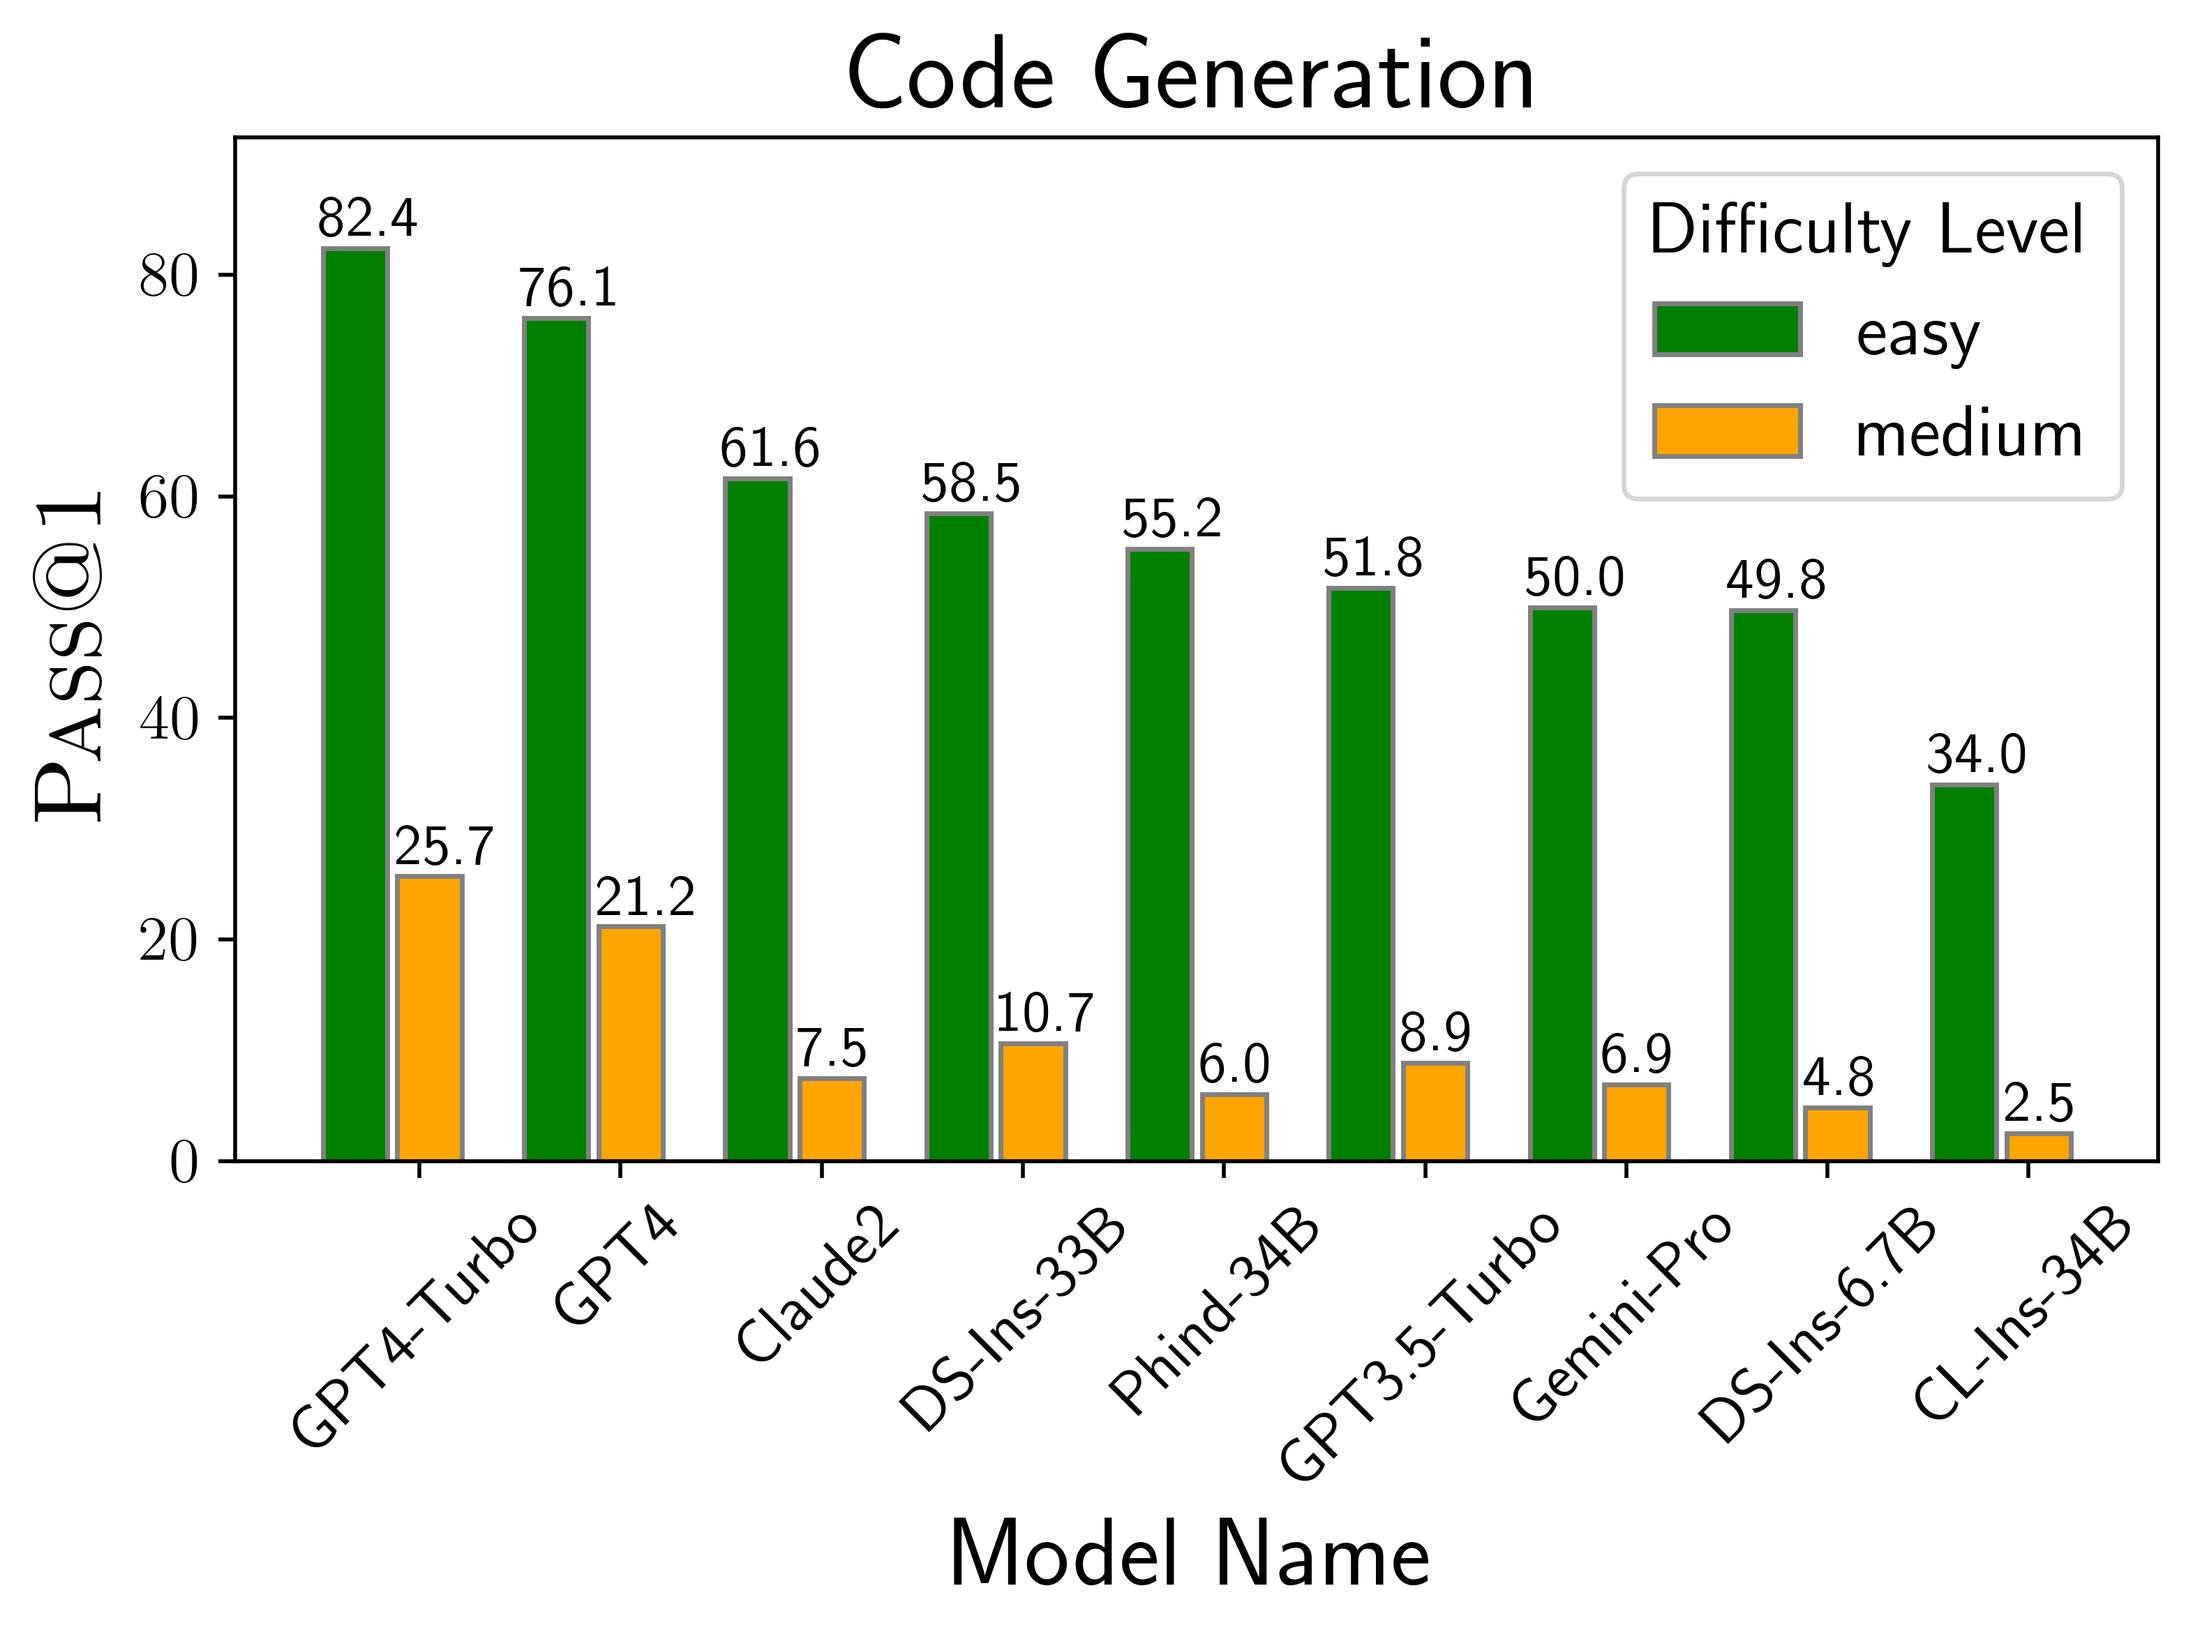
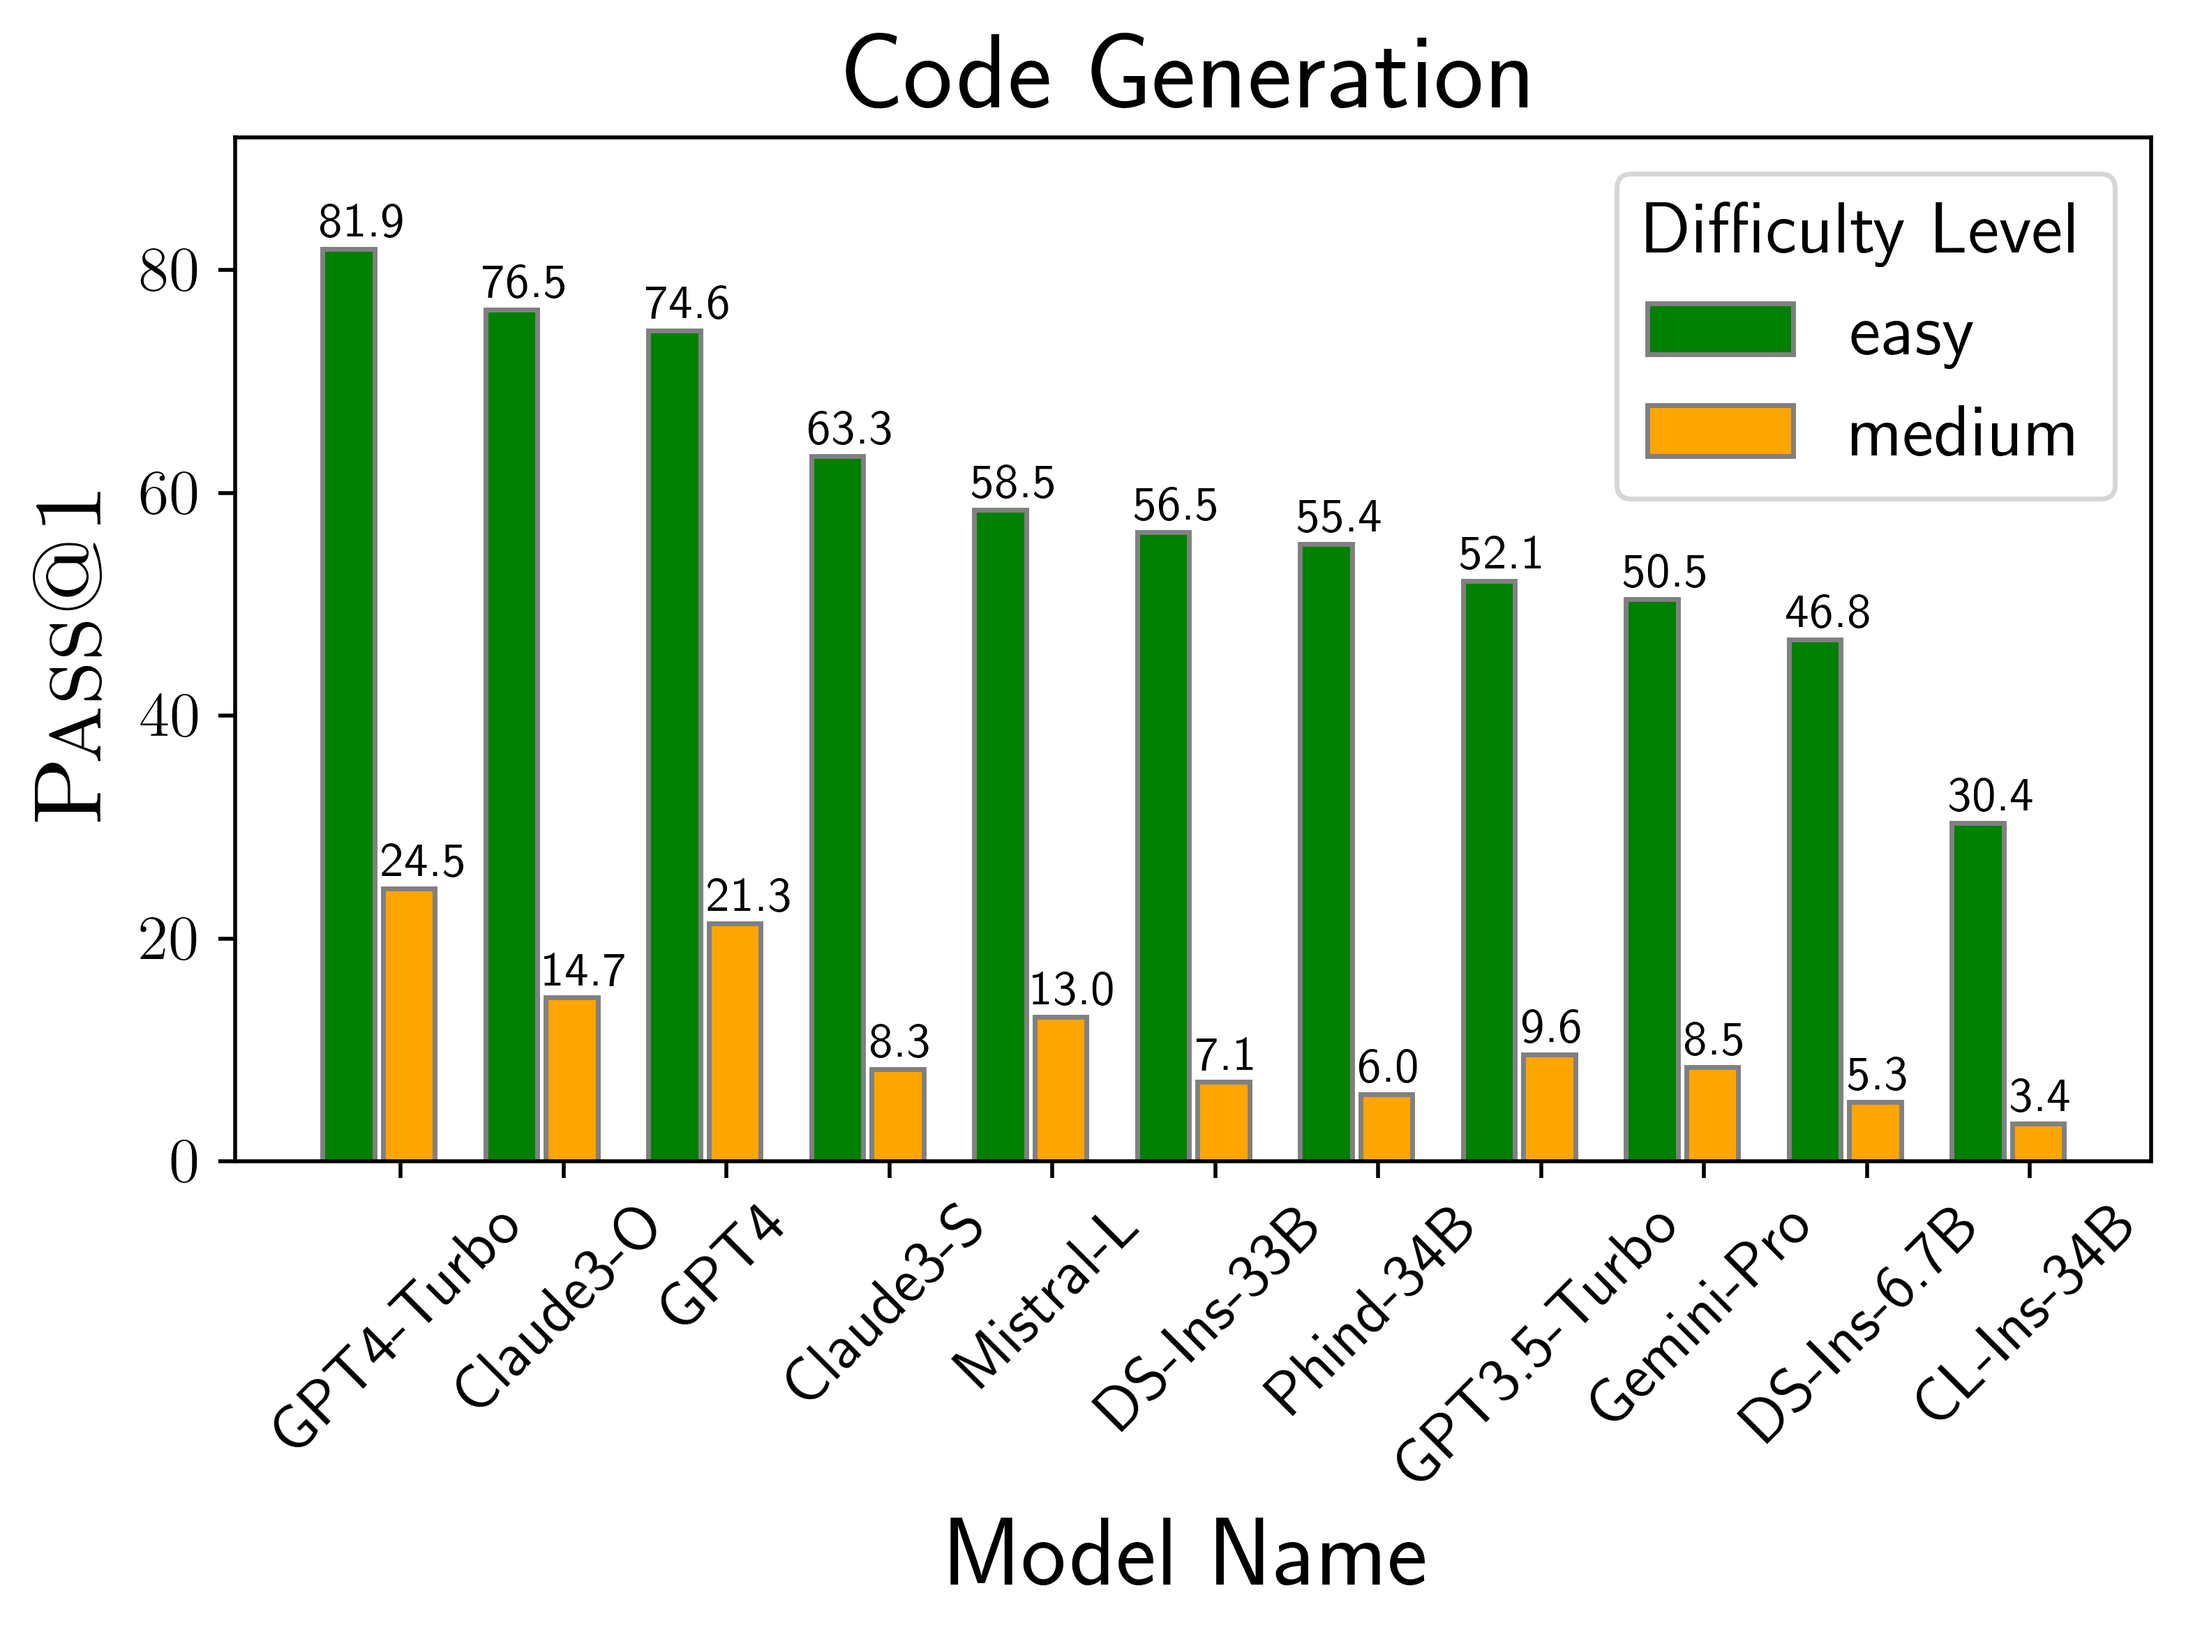
modifications

diff --git a/build/index.html b/build/index.html
@@ -71,7 +71,7 @@
               <span class="author-block">
                 <a href="https://tianjunz.github.io/">Tianjun Zhang</a><sup>1</sup>,</span>
               <span class="author-block">
-                <a href="https://www.sidaw.xyz/">Sida Wang</a><sup>4</sup>,</span>
+                <a href="https://www.sidaw.xyz/">Sida Wang</a>,</span>
               <span class="author-block">
                 <a href="https://people.csail.mit.edu/asolar/">Armando Solar-Lezama</a><sup>2</sup>,</span>
               <span class="author-block">
@@ -84,7 +84,6 @@
               <span class="author-block"><sup>1</sup>University of California, Berkeley</span>
               <span class="author-block"><sup>2</sup>MIT</span>
               <span class="author-block"><sup>3</sup>Cornell University</span>
-              <span class="author-block"><sup>4</sup>Meta AI</span>
             </div>
 
             <div class="column has-text-centered">
@@ -166,7 +165,7 @@
               such as self-repair, code execution, and test output prediction,
               beyond mere code generation. Currently, LiveCodeBench hosts over
               three hundred high-quality coding problems published between May
-              2023 and January 2024. We evaluate 29 LLMs on LiveCodeBench
+              2023 and February 2024. We evaluate 29 LLMs on LiveCodeBench
               scenarios and present novel empirical findings not revealed in
               prior benchmarks.
             </p>
@@ -215,7 +214,7 @@
     <div class="container is-max-desktop">
       <div class="columns is-centered has-text-centered">
         <div class="column is-four-fifths">
-          <h2 class="title is-3">Holistic Evaluation and Overfitting</h2>
+          <h2 class="title is-3">Holistic Evaluation and Open vs Closed Models</h2>
           <div class="content has-text-justified">
             <p>
               <span class="dnerf">LiveCodeBench</span> evaluates models on a variety of code-related scenarios, such as
@@ -233,9 +232,35 @@
             <br />
             <div class="columns is-centered">
               <img src="./images/tasks_radar.png" alt="Holistic Evaluation" class="teaser-image" width="44%"
+                height="44%" class="center" />
+              <img src="./images/lc_barchart.png" alt="Open vesus Closed Models" class="teaser-image" width="48%"
                 class="center" />
-              <img src="./images/lcb_vs_he.png" alt="HumanEval Overfitting" class="teaser-image" width="55%"
-                class="center" />
+
+              <!-- <img src="./images/lcb_vs_he.png" alt="HumanEval Overfitting" class="teaser-image" width="55%"
+                height="55%" class="center" /> -->
+            </div>
+            <p>
+              We compare the performance of open access models with closed api-access models on <span
+                class="dnerf">LiveCodeBench</span> and find that generally the closed api-access models outperform the
+              open models. Particularly, the only open models that surpass the barrier are fine-tuned variants of large
+              (30+B parameter) models.
+            </p>
+
+          </div>
+        </div>
+      </div>
+    </div>
+  </section>
+
+  <section class="section">
+    <div class="container is-max-desktop">
+      <div class="columns is-centered has-text-centered">
+        <div class="column is-four-fifths">
+          <h2 class="title is-3">Potential Overfitting in HumanEval</h2>
+          <div class="content has-text-justified">
+            <div class="columns is-centered">
+              <img src="./images/lcb_vs_he.png" alt="HumanEval Overfitting" class="teaser-image" width="80%"
+                height="80%" class="center" />
             </div>
             <p>
               We also find that models that perform well on <span class="dnerf">HumanEval</span> might be overfitting on
@@ -249,20 +274,17 @@
               For instance, <span class="dnerf">DS-Ins-1.3B</span> model outperforms <span
                 class="dnerf">Gemini-Pro</span> and <span class="dnerf">Claude-Ins-1</span> but performs considerably
               worse on <span class="dnerf">LCB-Easy</span>.
-            </p>
-
-            <p>
               Interestingly, the models in the red region are mostly fine-tuned variants of open access models. On the
               other hand, base models and most of the closed api-access models lie in the green region. This highlights
-              a potential lack of diverse fine-tuning data being employed by the open source community.
+              a potential lack of diverse fine-tuning data being employed by the open source community and the need for
+              optimizing models for a broader set of code-related tasks.
             </p>
-
           </div>
         </div>
       </div>
+
     </div>
   </section>
-
 
   <section class="section">
     <div class="container is-max-desktop">
@@ -270,16 +292,16 @@
         <div class="column is-four-fifths">
           <h2 class="title is-3">Model Comparisions</h2>
           <div class="content has-text-justified">
-            <p>
-              Lorem ipsum dolor sit amet consectetur adipisicing elit. Earum,
-              voluptatibus nam explicabo, quod animi iusto cupiditate
-              consequuntur quia nulla ut at iure vitae facere est consequatur
-              fuga molestiae error asperiores!
-            </p>
             <div class="columns is-centered">
-              <img src="./images/lc_barchart.png" alt="Open vesus Closed Models" class="teaser-image" width="48%"
-                class="center" />
-              <img src="./images/codegen_performance.png" alt="Code Execution Performance" class="teaser-image"
+              <img src="./images/codegen_performance.png" alt="Code Generation Performance" class="teaser-image"
+                width="48%" class="center" />
+              <img src="./images/repair_performance.png" alt="Code Execution Performance" class="teaser-image"
+                width="48%" class="center" />
+            </div>
+            <div class="columns is-centered">
+              <img src="./images/testgen_performance.png" alt="Code Execution Performance" class="teaser-image"
+                width="48%" class="center" />
+              <img src="./images/execution_performance.png" alt="Code Execution Performance" class="teaser-image"
                 width="48%" class="center" />
             </div>
           </div>

diff --git a/public/index_home.html b/public/index_home.html
@@ -71,7 +71,7 @@
               <span class="author-block">
                 <a href="https://tianjunz.github.io/">Tianjun Zhang</a><sup>1</sup>,</span>
               <span class="author-block">
-                <a href="https://www.sidaw.xyz/">Sida Wang</a><sup>4</sup>,</span>
+                <a href="https://www.sidaw.xyz/">Sida Wang</a>,</span>
               <span class="author-block">
                 <a href="https://people.csail.mit.edu/asolar/">Armando Solar-Lezama</a><sup>2</sup>,</span>
               <span class="author-block">
@@ -84,7 +84,6 @@
               <span class="author-block"><sup>1</sup>University of California, Berkeley</span>
               <span class="author-block"><sup>2</sup>MIT</span>
               <span class="author-block"><sup>3</sup>Cornell University</span>
-              <span class="author-block"><sup>4</sup>Meta AI</span>
             </div>
 
             <div class="column has-text-centered">
@@ -166,7 +165,7 @@
               such as self-repair, code execution, and test output prediction,
               beyond mere code generation. Currently, LiveCodeBench hosts over
               three hundred high-quality coding problems published between May
-              2023 and January 2024. We evaluate 29 LLMs on LiveCodeBench
+              2023 and February 2024. We evaluate 29 LLMs on LiveCodeBench
               scenarios and present novel empirical findings not revealed in
               prior benchmarks.
             </p>
@@ -215,7 +214,7 @@
     <div class="container is-max-desktop">
       <div class="columns is-centered has-text-centered">
         <div class="column is-four-fifths">
-          <h2 class="title is-3">Holistic Evaluation and Overfitting</h2>
+          <h2 class="title is-3">Holistic Evaluation and Open vs Closed Models</h2>
           <div class="content has-text-justified">
             <p>
               <span class="dnerf">LiveCodeBench</span> evaluates models on a variety of code-related scenarios, such as
@@ -233,9 +232,35 @@
             <br />
             <div class="columns is-centered">
               <img src="./images/tasks_radar.png" alt="Holistic Evaluation" class="teaser-image" width="44%"
+                height="44%" class="center" />
+              <img src="./images/lc_barchart.png" alt="Open vesus Closed Models" class="teaser-image" width="48%"
                 class="center" />
-              <img src="./images/lcb_vs_he.png" alt="HumanEval Overfitting" class="teaser-image" width="55%"
-                class="center" />
+
+              <!-- <img src="./images/lcb_vs_he.png" alt="HumanEval Overfitting" class="teaser-image" width="55%"
+                height="55%" class="center" /> -->
+            </div>
+            <p>
+              We compare the performance of open access models with closed api-access models on <span
+                class="dnerf">LiveCodeBench</span> and find that generally the closed api-access models outperform the
+              open models. Particularly, the only open models that surpass the barrier are fine-tuned variants of large
+              (30+B parameter) models.
+            </p>
+
+          </div>
+        </div>
+      </div>
+    </div>
+  </section>
+
+  <section class="section">
+    <div class="container is-max-desktop">
+      <div class="columns is-centered has-text-centered">
+        <div class="column is-four-fifths">
+          <h2 class="title is-3">Potential Overfitting in HumanEval</h2>
+          <div class="content has-text-justified">
+            <div class="columns is-centered">
+              <img src="./images/lcb_vs_he.png" alt="HumanEval Overfitting" class="teaser-image" width="80%"
+                height="80%" class="center" />
             </div>
             <p>
               We also find that models that perform well on <span class="dnerf">HumanEval</span> might be overfitting on
@@ -249,20 +274,17 @@
               For instance, <span class="dnerf">DS-Ins-1.3B</span> model outperforms <span
                 class="dnerf">Gemini-Pro</span> and <span class="dnerf">Claude-Ins-1</span> but performs considerably
               worse on <span class="dnerf">LCB-Easy</span>.
-            </p>
-
-            <p>
               Interestingly, the models in the red region are mostly fine-tuned variants of open access models. On the
               other hand, base models and most of the closed api-access models lie in the green region. This highlights
-              a potential lack of diverse fine-tuning data being employed by the open source community.
+              a potential lack of diverse fine-tuning data being employed by the open source community and the need for
+              optimizing models for a broader set of code-related tasks.
             </p>
-
           </div>
         </div>
       </div>
+
     </div>
   </section>
-
 
   <section class="section">
     <div class="container is-max-desktop">
@@ -270,16 +292,16 @@
         <div class="column is-four-fifths">
           <h2 class="title is-3">Model Comparisions</h2>
           <div class="content has-text-justified">
-            <p>
-              Lorem ipsum dolor sit amet consectetur adipisicing elit. Earum,
-              voluptatibus nam explicabo, quod animi iusto cupiditate
-              consequuntur quia nulla ut at iure vitae facere est consequatur
-              fuga molestiae error asperiores!
-            </p>
             <div class="columns is-centered">
-              <img src="./images/lc_barchart.png" alt="Open vesus Closed Models" class="teaser-image" width="48%"
-                class="center" />
-              <img src="./images/codegen_performance.png" alt="Code Execution Performance" class="teaser-image"
+              <img src="./images/codegen_performance.png" alt="Code Generation Performance" class="teaser-image"
+                width="48%" class="center" />
+              <img src="./images/repair_performance.png" alt="Code Execution Performance" class="teaser-image"
+                width="48%" class="center" />
+            </div>
+            <div class="columns is-centered">
+              <img src="./images/testgen_performance.png" alt="Code Execution Performance" class="teaser-image"
+                width="48%" class="center" />
+              <img src="./images/execution_performance.png" alt="Code Execution Performance" class="teaser-image"
                 width="48%" class="center" />
             </div>
           </div>
